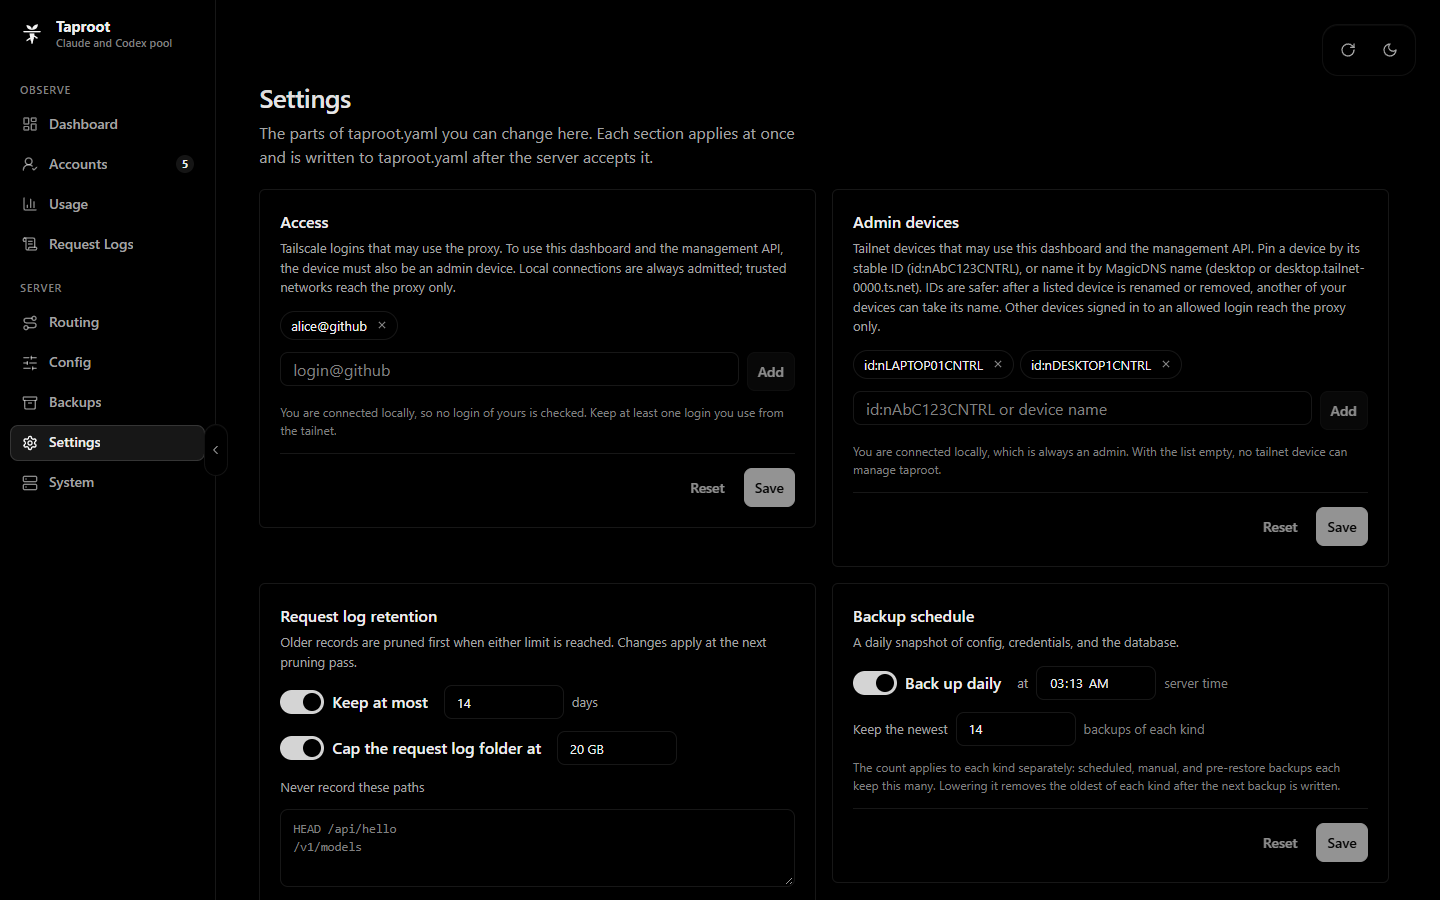
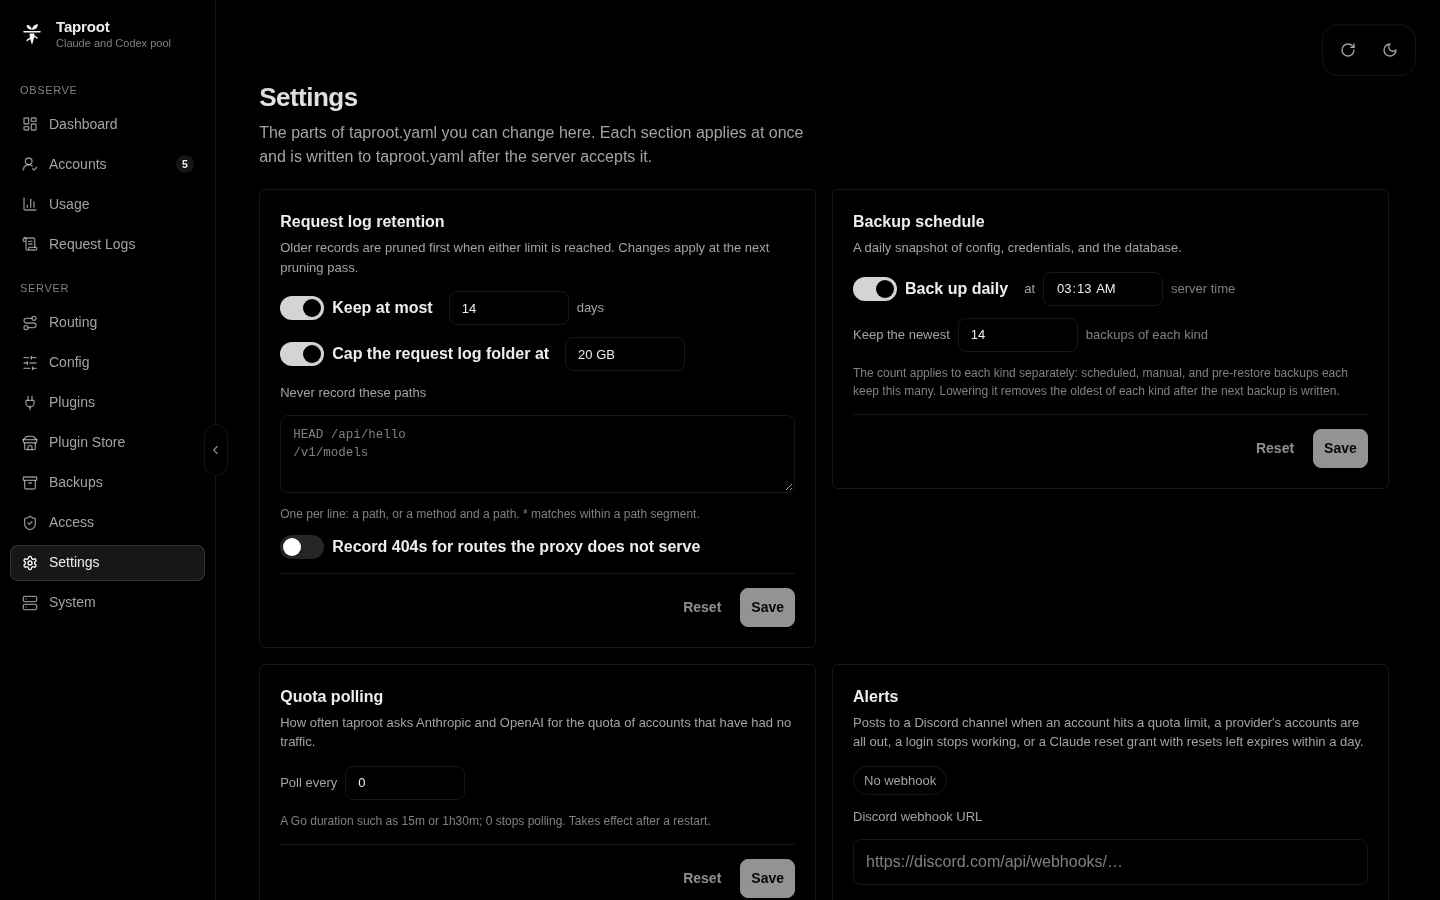
docs(taproot): add the Access page to the README screenshots
capture.ts takes an Access shot and accepts the RFC 5737 documentation range the demo's address group uses. settings.png no longer shows the removed access cards.

diff --git a/internal/taproot/demo/capture.ts b/internal/taproot/demo/capture.ts
@@ -103,6 +103,7 @@ const shots: Shot[] = [
   { file: 'request-log-detail.png', route: `/request-logs?requestId=${encodeURIComponent(detail.requestId)}` },
   { file: 'routing.png', route: '/routing' },
   { file: 'backups.png', route: '/backups' },
+  { file: 'access.png', route: '/access', height: 1480 },
   { file: 'settings.png', route: '/settings' },
   { file: 'accounts-light.png', route: '/accounts', theme: 'light' },
 ];
@@ -143,7 +144,8 @@ async function privacyProblems(page: Page): Promise<string[]> {
     if (!['example.com', 'example.org', 'github'].includes(domain)) problems.push(`address ${m}`);
   }
   for (const m of text.match(IPV4) ?? []) {
-    if (m !== '127.0.0.1' && !m.startsWith('100.64.0.')) problems.push(`address ${m}`);
+    // 192.0.2.0/24 is reserved for documentation (RFC 5737); the demo's address group uses it.
+    if (m !== '127.0.0.1' && !m.startsWith('100.64.0.') && !m.startsWith('192.0.2.')) problems.push(`address ${m}`);
   }
   if (HOME_PATH.test(text)) problems.push('a home directory path');
   const lower = text.toLowerCase();

diff --git a/CONTRIBUTING.md b/CONTRIBUTING.md
@@ -88,7 +88,7 @@ By contributing, you agree that your contribution is released under the [MIT Lic
 
 ## Demo data and screenshots
 
-`internal/taproot/demo` seeds a data directory with synthetic accounts, 30 days of usage, quota history, request logs, and backups, all written through taproot's own ingest, request-log, and backup code. The README screenshots come from it.
+`internal/taproot/demo` seeds a data directory with synthetic accounts, 30 days of usage, quota history, request logs, and backups, all written through taproot's own ingest, request-log, and backup code. It also serves a fake tailscaled with a small tailnet, so the Access page has devices. The README screenshots come from it.
 
 ```sh
 bash scripts/taproot/build-web.sh                 # embed the dashboard
@@ -98,5 +98,5 @@ bash internal/taproot/demo/run.sh --capture       # also rewrite docs/screenshot
 
 - **Nothing leaves the machine.** The demo config sends every outbound request to a dead loopback proxy, the quota poller and alerts are off, and the credentials are fake.
 - **Same data every run.** The generator uses a fixed seed, and every timestamp is an offset from a start time computed from the current time, so each run produces the same history shifted to end now.
-- **Privacy check.** Before each screenshot, `capture.ts` refuses the page if it shows an address outside `example.com`, `example.org`, and `100.64.0.x`, or a home-directory path. Pass `--deny a,b` to refuse extra strings, such as your user name. Run it from a directory whose path does not contain your user name, or the Settings page shows that path. On Windows, `subst T: <temp dir>` then `--dir T:/taproot-demo` works.
+- **Privacy check.** Before each screenshot, `capture.ts` refuses the page if it shows an address outside `example.com`, `example.org`, `100.64.0.x`, and the documentation range `192.0.2.x`, or a home-directory path. Pass `--deny a,b` to refuse extra strings, such as your user name. Run it from a directory whose path does not contain your user name, or the Settings page shows that path. On Windows, `subst T: <temp dir>` then `--dir T:/taproot-demo` works.
 - **Read the images** before committing them. `build-web.sh` rewrites `internal/taproot/web/dist/index.html`; restore it with `git checkout` before you commit. The chunks it writes to `internal/taproot/web/dist/assets/` are ignored by git.

diff --git a/README.md b/README.md
@@ -210,7 +210,7 @@ All screenshots use synthetic demo data from `internal/taproot/demo` (see [CONTR
 | [<img src="docs/screenshots/usage-sessions.png" width="420" alt="Sessions">](docs/screenshots/usage-sessions.png)<br>**Sessions:** session affinity and account switches | [<img src="docs/screenshots/request-logs.png" width="420" alt="Request logs">](docs/screenshots/request-logs.png)<br>**Request Logs:** every proxied request, compressed and searchable |
 | [<img src="docs/screenshots/request-log-detail.png" width="420" alt="Request log detail">](docs/screenshots/request-log-detail.png)<br>**Request detail:** headers with credentials redacted, and the body | [<img src="docs/screenshots/routing.png" width="420" alt="Routing">](docs/screenshots/routing.png)<br>**Routing:** soonest-reset-first and session affinity |
 | [<img src="docs/screenshots/backups.png" width="420" alt="Backups">](docs/screenshots/backups.png)<br>**Backups:** scheduled and manual snapshots | [<img src="docs/screenshots/settings.png" width="420" alt="Settings">](docs/screenshots/settings.png)<br>**Settings:** retention and backup schedule |
-| [<img src="docs/screenshots/accounts-light.png" width="420" alt="Accounts, light theme">](docs/screenshots/accounts-light.png)<br>**Light theme** | |
+| [<img src="docs/screenshots/access.png" width="420" alt="Access">](docs/screenshots/access.png)<br>**Access:** every tailnet device by owner, with its Proxy and Admin switches | [<img src="docs/screenshots/accounts-light.png" width="420" alt="Accounts, light theme">](docs/screenshots/accounts-light.png)<br>**Light theme** |
 
 ## Configuration reference
 
